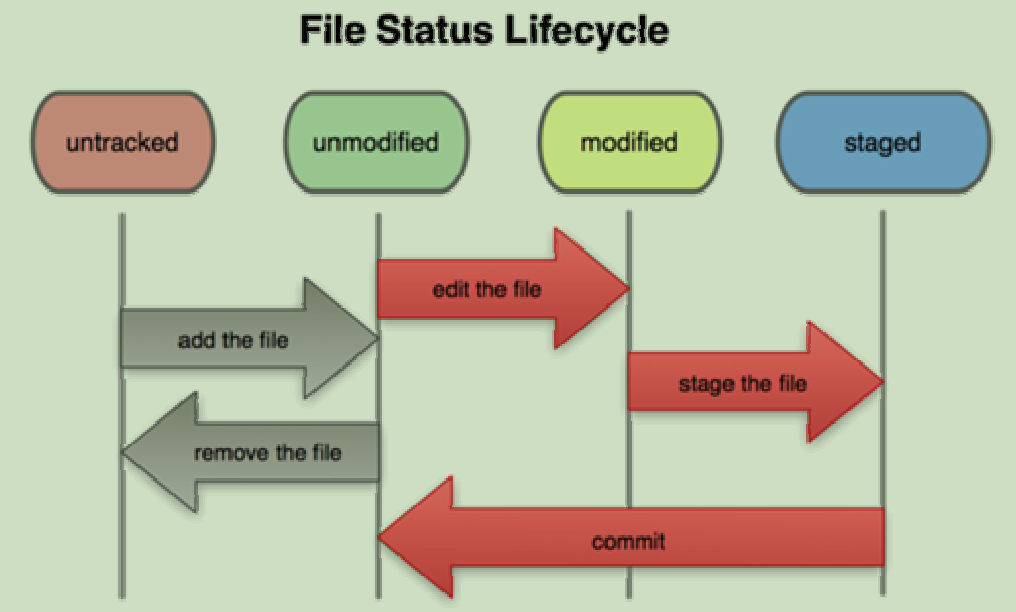
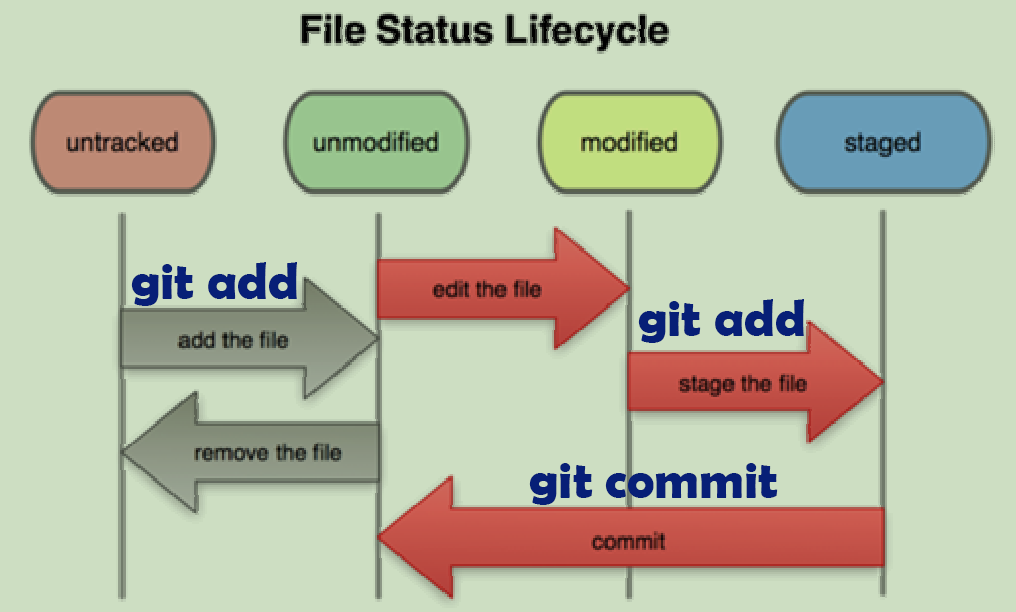
20200330

Changed region(s): [[0.5187, 0.7451, 0.7628, 0.8382], [0.6102, 0.4967, 0.7933, 0.5588], [0.122, 0.4346, 0.3051, 0.4967]]

diff --git a/_posts/2020-3-17-gitstack.md b/_posts/2020-3-17-gitstack.md
@@ -55,25 +55,48 @@ git commit -m '<描述信息>' 提交更新(-m前加-a可以跳过add的步骤)
 
 git status 各子文件所处的状态
 
-git log 查看日志
+git log 查看提交历史
 
-git reflog 查看分支所有操作
+git reflog 查看命令历史
 
 git mv <文件名> <新文件名> 文件重命名
 
 git rm <文件名> 删除文件
 
-git reset HEAD <文件名>
+git reset --hard <版本号前几位>
 
-git checkout -- <文件名> 撤销内容操作到上一个版本(慎用，会数据丢失)
+git reset HEAD <文件名> 取消暂存区
+
+git checkout -- <文件名> 回到该文件最近一次commit或add的状态(慎用，会数据丢失)
 
 ![](https://a-photo-store.oss-cn-beijing.aliyuncs.com/in-posts/20200317-file-status.png)
+
+总结  
+版本迭代：  
+1.首先建一个文件夹，用`git init`进行初始化。  
+2.然后对想要进行版本管理的文件使用`git add`纳入版本管理。修改文件后用`git add`加入暂存区。  
+3.最后使用`git commit`提交暂存区的内容形成一个可回溯的版本。  
+
+单个文件的版本撤回：    
+1.如果是工作区的修改出了问题，就直接用`git checkout -- <文件名>`，回退的状态以上一个命令是add或commit为准。  
+2.如果是暂存区修改，就使用`git reset HEAD <文件名>`然后按上一步操作。  
+3.如果commit过了，就进行一下版本回退。    
+
+版本回退：   
+1.HEAD指向的为当前版本，用`git log`或`git reflog`查看版本号。  
+2.然后用`git reset --hard <版本号前几位>`  
+
+删除文件：  
+1.不用的文件可以用`rm <文件名>`或直接在文件管理器删除。  
+2.如果在版本库中也要删除就用命令`git rm <文件名>`，并且`git commit`。  
+3.如果只是用第一步删除，都可以用`git checkout -- <文件名>`还原，而第二种移除的只能用版本回退。  
+
 
 #### 分支操作
 
 git branch <分支名> 在当前commit对象上创建分支  
 
-git checkout <分支名> 切换分支   
+git checkout <分支名> 切换分支  (-b)创建并切换分支 
 
 git merge <分支名> 合并分支  
 
@@ -81,6 +104,7 @@ git branch -d <分支名> 删除分支
 
 git rebase <分支名> 更新分支代码  
 
+git log --graph 查看分支合并图
 
 应用场景：我现在有一个网站,里面有原有内容，我这时候有个新的需求要做，创建一个newReq分支(git branch newReq)，同时我有一个bug要修复，创建一个bug1分支(git branch bug1)，我修复了bug1，切回master然后合并bug1和主支，当我再做newReq如果操作了同一个文件夹，就会出现冲突。  
 ![](https://a-photo-store.oss-cn-beijing.aliyuncs.com/in-posts/20200318-branch.png)
